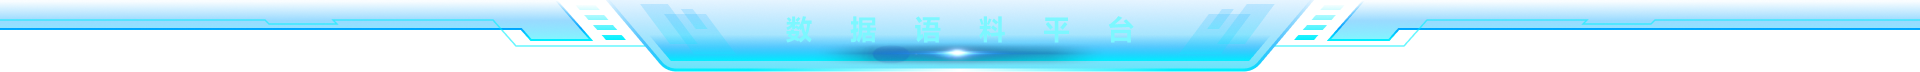
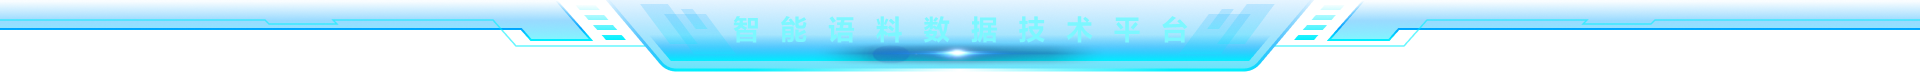
ui修复

Changed region(s): [[0.375, 0.2222, 0.625, 0.5833]]

diff --git a/src/components/detailLeft/index.vue b/src/components/detailLeft/index.vue
@@ -79,45 +79,46 @@ function detailDialog(row: any) {
     detailHeaderName.value = '任务详情'
     if (row.row[0] === '塑料材料组分数据知识提取') {
       pdfUrl.value = '/硅烷偶联剂改性对气相SiO...电缆绝缘复合材料性能的影响_王含.pdf'
+      // Math.floor(Math.random() * (3 + 1))
       for (let i = 0; i <= 2; i++)
-        tabConfig.data.push([row.row[0], dataArr[Math.floor(Math.random() * (3 + 1))], a[i], `172.16.0.25${Math.floor(Math.random() * (6 + 1))}`, '<span class="detail">查看详情</span>'])
+        tabConfig.data.push([row.row[0], dataArr[3], a[i], `172.16.0.25${Math.floor(Math.random() * (6 + 1))}`, '<span class="detail">查看详情</span>'])
     }
     if (row.row[0] === '铝合金材料性状说明数据知识提取') {
       pdfUrl.value = '/B-PDA-G_PDMS导热绝缘材料的制备及应用.pdf'
       for (let i = 0; i <= 2; i++)
-        tabConfig.data.push([row.row[0], dataArr[Math.floor(Math.random() * (3 + 1))], b[i], `172.16.0.25${Math.floor(Math.random() * (6 + 1))}`, '<span class="detail">查看详情</span>'])
+        tabConfig.data.push([row.row[0], dataArr[3], b[i], `172.16.0.25${Math.floor(Math.random() * (6 + 1))}`, '<span class="detail">查看详情</span>'])
     }
     if (row.row[0] === '硅酸盐矿物开采工艺数据知识提取') {
       pdfUrl.value = '/改性硅溶胶封孔剂对多孔Al_(2)O_(3)陶瓷绝缘性能和微观结构的影响.pdf'
       for (let i = 0; i <= 2; i++)
-        tabConfig.data.push([row.row[0], dataArr[Math.floor(Math.random() * (3 + 1))], c[i], `172.16.0.25${Math.floor(Math.random() * (6 + 1))}`, '<span class="detail">查看详情</span>'])
+        tabConfig.data.push([row.row[0], dataArr[3], c[i], `172.16.0.25${Math.floor(Math.random() * (6 + 1))}`, '<span class="detail">查看详情</span>'])
     }
     if (row.row[0] === '国家岩层构造分布数据平行语料制备') {
       pdfUrl.value = '/基于超疏水滤膜的绝缘油多级过滤除水新工艺.pdf'
 
       for (let i = 0; i <= 2; i++)
-        tabConfig.data.push([row.row[0], dataArr[Math.floor(Math.random() * (3 + 1))], d[i], `172.16.0.25${Math.floor(Math.random() * (6 + 1))}`, '<span class="detail">查看详情</span>'])
+        tabConfig.data.push([row.row[0], dataArr[1], d[i], `172.16.0.25${Math.floor(Math.random() * (6 + 1))}`, '<span class="detail">查看详情</span>'])
     }
     if (row.row[0] === '半导体材料说明平行语料制备') {
       pdfUrl.value = '/超导电缆用低介损复合绝缘材料性能研究.pdf'
       for (let i = 0; i <= 2; i++)
-        tabConfig.data.push([row.row[0], dataArr[Math.floor(Math.random() * (3 + 1))], e[i], `172.16.0.25${Math.floor(Math.random() * (6 + 1))}`, '<span class="detail">查看详情</span>'])
+        tabConfig.data.push([row.row[0], dataArr[1], e[i], `172.16.0.25${Math.floor(Math.random() * (6 + 1))}`, '<span class="detail">查看详情</span>'])
     }
     if (row.row[0] === '合成纤维及产业平行语料制备') {
       pdfUrl.value = '/硅烷偶联剂改性对气相SiO...电缆绝缘复合材料性能的影响_王含.pdf'
       for (let i = 0; i <= 2; i++)
-        tabConfig.data.push([row.row[0], dataArr[Math.floor(Math.random() * (3 + 1))], f[i], `172.16.0.25${Math.floor(Math.random() * (6 + 1))}`, '<span class="detail">查看详情</span>'])
+        tabConfig.data.push([row.row[0], dataArr[1], f[i], `172.16.0.25${Math.floor(Math.random() * (6 + 1))}`, '<span class="detail">查看详情</span>'])
     }
     if (row.row[0] === '结晶高分子/半结晶高分子材料数据知识提取') {
       pdfUrl.value = '/绝缘二维纳米材料的制备及其...有机涂层防腐性能的研究进展_肖敏迪.pdf'
       for (let i = 0; i <= 2; i++)
-        tabConfig.data.push([row.row[0], dataArr[Math.floor(Math.random() * (3 + 1))], g[i], `172.16.0.25${Math.floor(Math.random() * (6 + 1))}`, '<span class="detail">查看详情</span>'])
+        tabConfig.data.push([row.row[0], dataArr[3], g[i], `172.16.0.25${Math.floor(Math.random() * (6 + 1))}`, '<span class="detail">查看详情</span>'])
     }
 
     if (row.row[0] === '绝缘材料的理论知识提取') {
       pdfUrl.value = '/纳米改性植物绝缘油电气特性的研究进展_苏梓铭.pdf'
       for (let i = 0; i <= 2; i++)
-        tabConfig.data.push([row.row[0], dataArr[Math.floor(Math.random() * (3 + 1))], h[i], `172.16.0.25${Math.floor(Math.random() * (6 + 1))}`, '<span class="detail">查看详情</span>'])
+        tabConfig.data.push([row.row[0], dataArr[3], h[i], `172.16.0.25${Math.floor(Math.random() * (6 + 1))}`, '<span class="detail">查看详情</span>'])
     }
   }
 }

diff --git a/src/components/detailBottom/index.vue b/src/components/detailBottom/index.vue
@@ -23,7 +23,7 @@ watch(() => userStore.content2List, () => {
     userStore.content2List[2].forEach((item: any) => {
       // https://www.effyic.com
       if (item['任务名称']?.length > 0)
-        config.data.push([item['任务名称'], item?.url ? `<span class="urlColor">${item.url}</span>` : `<span class="urlColor">/data/工业/${item['任务名称']}</span>`, item?.ip || `172.16.0.25${Math.floor(Math.random() * (6 + 1))}`, item?.type || `/data/工业/${item['任务名称']}`])
+        config.data.push([item['任务名称'], item?.url ? `<span class="urlColor">${item.url}</span>` : `<span class="urlColor">/data/工业/${item['任务名称']}</span>`, item?.ip || `172.16.0.25${Math.floor(Math.random() * (6 + 1))}`, item?.type || `/data/语料/${item['任务名称']}`])
     })
   }
 }, { immediate: true, deep: true })

diff --git a/src/components/detailRight/index.vue b/src/components/detailRight/index.vue
@@ -21,7 +21,7 @@ watch(() => userStore.content2List, () => {
     config.data = []
     userStore.content2List[1].forEach((item: any) => {
       if (item['任务名称']?.length > 0)
-        config.data.push([item['任务名称'], `${item['执行时长（小时）'] || '20'}h`, switchFn(item['处理状态']), '<span class="detail">查看详情</span>'])
+        config.data.push([item['任务名称'], `${item['执行时长（小时）'] || '20'}h`, switchFn(item['处理状态']), '<span class="detail">屏蔽显示</span>'])
     })
   }
 }, { immediate: true, deep: true })

diff --git a/index.html b/index.html
@@ -4,7 +4,7 @@
     <meta charset="UTF-8">
     <link rel="icon" href="/logo-icon.png">
     <meta name="viewport" content="width=device-width, initial-scale=1.0">
-    <title>数据语料平台</title>
+    <title>智能语料数据技术平台</title>
   </head>
   <body class="font-sans dark:text-white dark:bg-hex-121212">
     <div id="app"></div>
